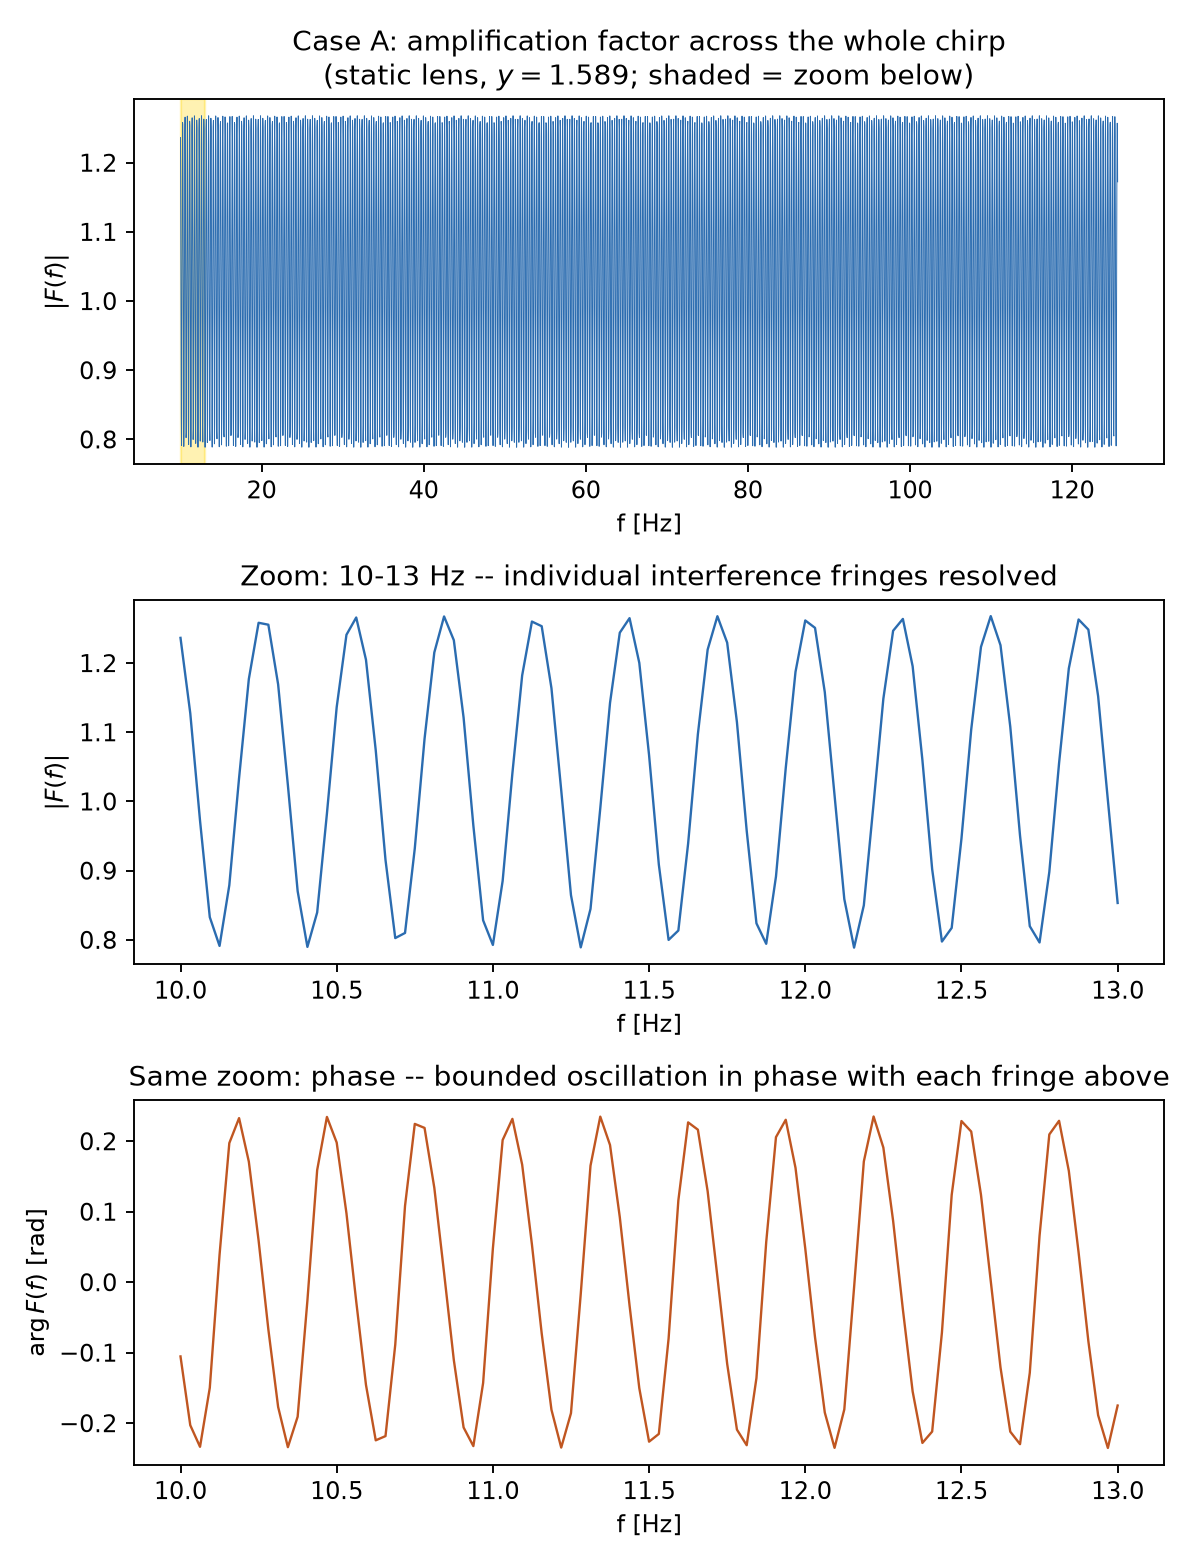
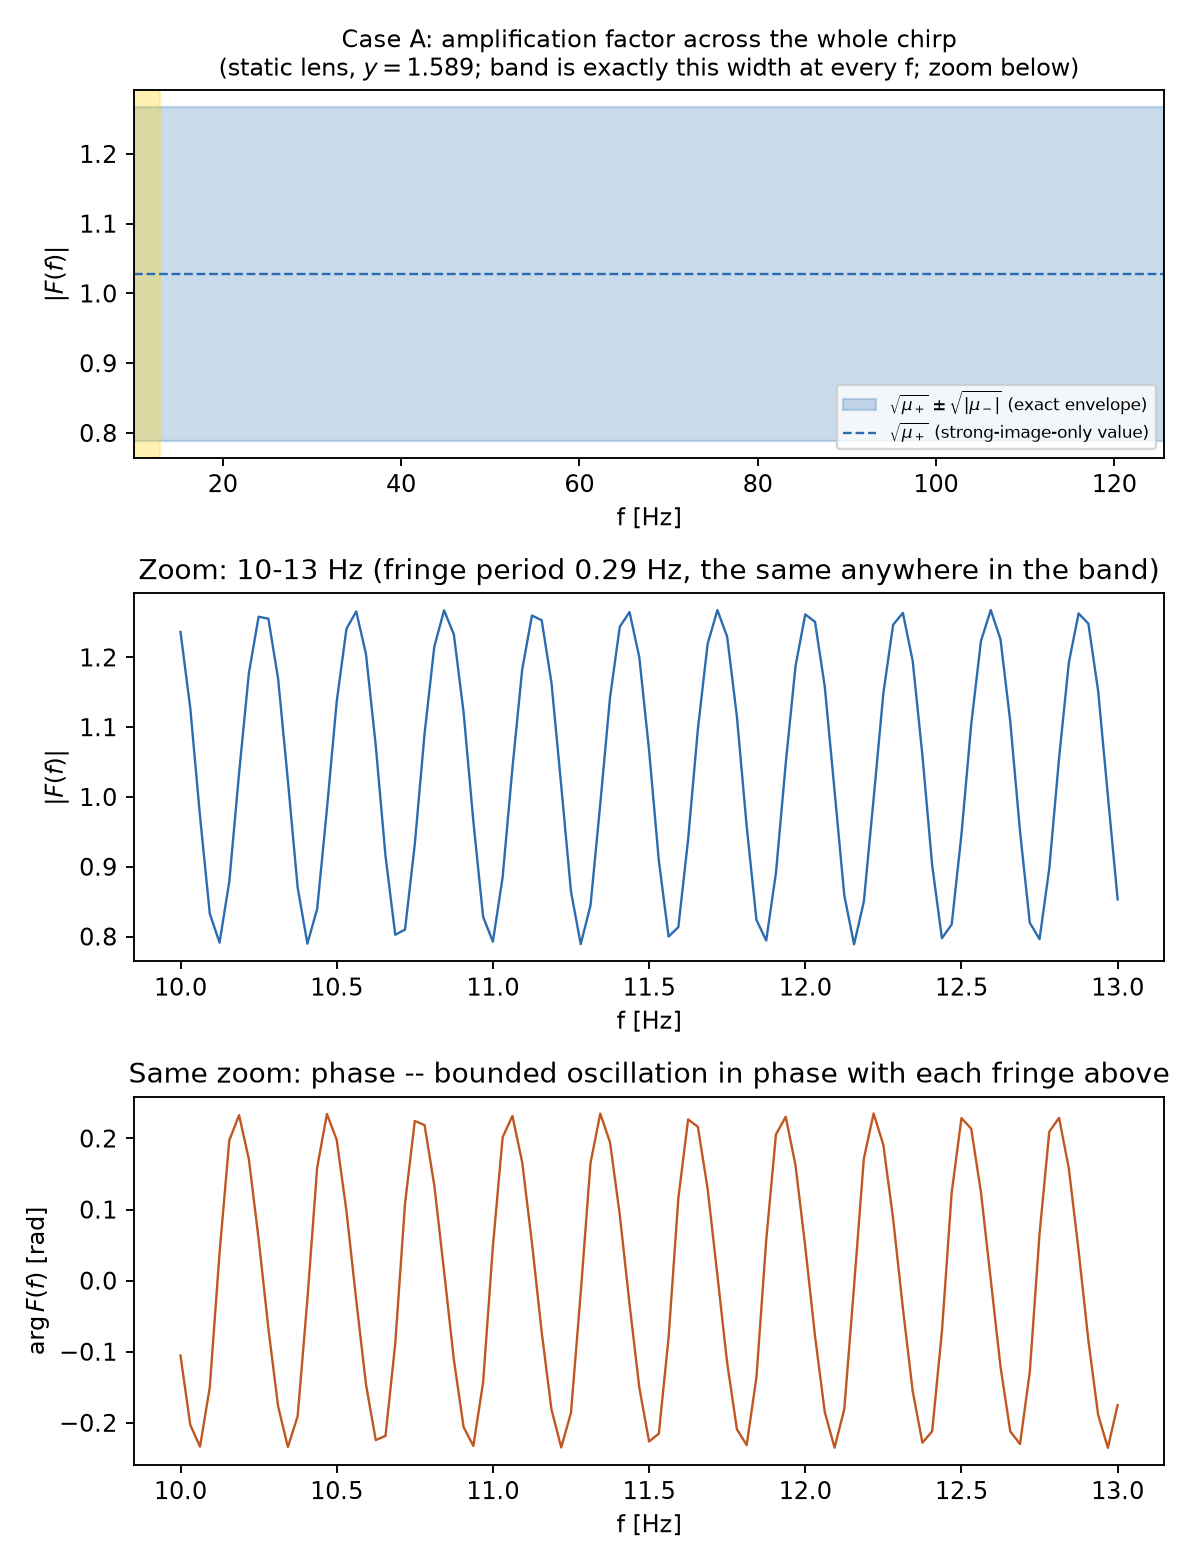
Fix figure legibility bugs: legend overlap, misleading titles, a redesigned panel
All found by actually looking at the committed PNGs, not just the code that
produces them:

- caseB_detector_view.png and caseB_y_of_t.png (now removed, see below): the
  legend box sat at a fixed 'upper right'/'best' location with no headroom,
  covering real data underneath it -- the last two carrier peaks in the
  detector-view zoom panel, the envelope ripple in its overview panel, and
  the rising edge of the second divergence in the (now-removed) impact
  parameter figure. Fixed by adding vertical headroom above the data and
  anchoring the legend there instead, on all three affected panels.

- caseB_y_of_t.png (impact parameter vs. time) removed entirely: the two
  formal y->infinity divergences dominate the whole plot and leave no room
  to see anything else, so it added nothing beyond what
  fraction_of_time_lensed and caseB_pattern_with_orbit.png already convey.
  RESULTS.md and claims.yaml updated to point at the latter instead.

- caseB_detector_view.png's zoom-panel title claimed to show "the peak of
  one lensing pulse", but a lensing pulse's own shape (the sinc-like
  diffraction ringing envelope) lives on a ~1-day timescale, while this
  panel's +-200s window is far too narrow to show anything but ~20 raw
  carrier cycles at the peak INSTANT -- retitled to say what it actually
  shows (carrier-cycle dephasing between lensed/unlensed) and to point at
  caseB_repeated_pulses.png for the pulse's actual shape.
[…]

diff --git a/cases/case_A_chirp/run.py b/cases/case_A_chirp/run.py
@@ -245,36 +245,61 @@ def main():
     log("echo_to_unlensed_peak_ratio", echo_to_unlensed_peak_ratio)
     x_plus_A, x_minus_A = wo.image_positions(y_A)
     sqrt_mu_minus = float(np.sqrt(np.abs(wo.magnification(x_minus_A))))
+    sqrt_mu_plus = float(np.sqrt(wo.magnification(x_plus_A)))
     log("sqrt_mu_minus_geometric", sqrt_mu_minus)
     log("echo_ratio_vs_sqrt_mu_minus_relerr",
         float(abs(echo_to_unlensed_peak_ratio - sqrt_mu_minus) / sqrt_mu_minus))
 
     # ---- Figure 1: F(f) across the chirp (interference fringes) ---------
     # The fringes are far too fine to resolve over the full 10-125 Hz band
-    # at print resolution (w up to 778 means thousands of oscillations); a
-    # first version of this figure just looked like a filled band. Fixed
-    # with a zoomed inset showing a few Hz where the fringes are resolved.
+    # at print resolution (w up to 778 means thousands of oscillations) --
+    # plotting the raw |F(f)| curve there just renders as an unresolved,
+    # visually noisy blob with no information content beyond its envelope
+    # (an earlier version of this figure did exactly that). The envelope
+    # itself, though, is EXACTLY two constant lines here, not something
+    # that needs a plot to discover: F is in the geometric-optics regime
+    # throughout the band (min/max_abs_F_in_band above), so
+    # |F(f)| = |sqrt(mu_+) + i*sqrt(|mu_-|)*exp(-2*pi*i*f*DeltaT_seconds)|
+    # oscillates strictly between sqrt(mu_+)-sqrt(|mu_-|) and
+    # sqrt(mu_+)+sqrt(|mu_-|) for every f -- so the top panel shows that
+    # constant band directly (shaded), which is the actually-informative
+    # summary of the whole-band behavior. The oscillation ITSELF has a
+    # period in frequency of exactly 1/Delta_T_seconds
+    # (image_time_delay_seconds), independent of f (Delta_T is fixed for a
+    # static lens, and phase = 2*pi*f*Delta_T is linear in f) -- so the
+    # zoomed inset below, though drawn at the start of the band for
+    # concreteness, is representative of any equal-width window anywhere
+    # in it, not particular to that location.
     mask = (freqs >= system.F_A_START_HZ) & (freqs <= system.F_ISCO_HZ)
     f_zoom_lo, f_zoom_hi = system.F_A_START_HZ, system.F_A_START_HZ + 3.0
     zmask = (freqs >= f_zoom_lo) & (freqs <= f_zoom_hi)
+    fringe_period_hz = 1.0 / NUMBERS["image_time_delay_seconds"]
+    log("fringe_period_hz", float(fringe_period_hz))
 
-    # Three panels: |F(f)| over the whole band, |F(f)| zoomed (fringes
+    # Three panels: constant-envelope overview, |F(f)| zoomed (fringes
     # resolved), and arg F(f) over that same zoom -- an earlier version of
     # this figure had only the two |F| panels while RESULTS.md/claims.yaml
     # already described an "arg F" sub-panel that did not exist; an
     # independent review caught the mismatch, see wiki/log.md.
     fig, axes = plt.subplots(3, 1, figsize=(7, 9.2))
-    axes[0].plot(freqs[mask], np.abs(F[mask]), lw=0.4, color="#2b6cb0")
+    axes[0].axhspan(sqrt_mu_plus - sqrt_mu_minus, sqrt_mu_plus + sqrt_mu_minus,
+                     color="#2b6cb0", alpha=0.25,
+                     label=r"$\sqrt{\mu_+}\pm\sqrt{|\mu_-|}$ (exact envelope)")
+    axes[0].axhline(sqrt_mu_plus, color="#2b6cb0", lw=1.0, ls="--",
+                     label=r"$\sqrt{\mu_+}$ (strong-image-only value)")
     axes[0].axvspan(f_zoom_lo, f_zoom_hi, color="gold", alpha=0.3)
     axes[0].set_ylabel(r"$|F(f)|$")
     axes[0].set_xlabel("f [Hz]")
+    axes[0].set_xlim(system.F_A_START_HZ, system.F_ISCO_HZ)
+    axes[0].legend(fontsize=7, loc="lower right")
     axes[0].set_title("Case A: amplification factor across the whole chirp\n"
-                       f"(static lens, $y={y_A:.3f}$; shaded = zoom below)")
+                       f"(static lens, $y={y_A:.3f}$; band is exactly this width at every f; zoom below)",
+                       fontsize=10)
     axes[1].plot(freqs[zmask], np.abs(F[zmask]), lw=1.0, color="#2b6cb0")
     axes[1].set_ylabel(r"$|F(f)|$")
     axes[1].set_xlabel("f [Hz]")
-    axes[1].set_title(f"Zoom: {f_zoom_lo:.0f}-{f_zoom_hi:.0f} Hz -- individual "
-                       "interference fringes resolved")
+    axes[1].set_title(f"Zoom: {f_zoom_lo:.0f}-{f_zoom_hi:.0f} Hz (fringe period "
+                       f"{fringe_period_hz:.2f} Hz, the same anywhere in the band)")
     axes[2].plot(freqs[zmask], np.angle(F[zmask]), lw=1.0, color="#c05621")
     axes[2].set_ylabel(r"$\arg F(f)$ [rad]")
     axes[2].set_xlabel("f [Hz]")
@@ -341,20 +366,33 @@ def main():
 
     # ---- Figure 3: extended diffraction/interference pattern in y-plane -
     from matplotlib.colors import LogNorm
+    import matplotlib.ticker as mticker
+
+    def _log_tick(value, _pos):
+        # "1" instead of matplotlib's default "10^0" for the unit-value
+        # tick -- correct either way, but "10^0" reads as unnecessary
+        # decoration for a tick that just means 1.
+        if abs(value - 1.0) < 1e-9:
+            return "1"
+        exp = round(np.log10(value))
+        return fr"$10^{{{exp}}}$"
+
     fig, axes = plt.subplots(1, 2, figsize=(9.5, 4.4))
 
     axis0, axis0y, mag2_0 = make_ring_pattern(w_start, y_max=3.0, n_grid=481)
     im0 = axes[0].pcolormesh(axis0, axis0y, mag2_0, shading="auto", cmap="inferno",
                               norm=LogNorm(vmin=max(mag2_0.min(), 1e-3), vmax=mag2_0.max()))
     axes[0].set_title(f"start of band, f={system.F_A_START_HZ} Hz, w={w_start:.1f}", fontsize=9)
-    fig.colorbar(im0, ax=axes[0], shrink=0.8, label=r"$|F|^2$ (log scale)")
+    cb0 = fig.colorbar(im0, ax=axes[0], shrink=0.8, label=r"$|F|^2$ (log scale)")
+    cb0.ax.yaxis.set_major_formatter(mticker.FuncFormatter(_log_tick))
 
     axis1, axis1y, mag2_1 = make_ring_pattern(
         w_isco, n_grid=500, center=(y_A, 0.0), half_width=0.15, n_radial=6000)
     im1 = axes[1].pcolormesh(axis1, axis1y, mag2_1, shading="auto", cmap="inferno",
                               norm=LogNorm(vmin=max(mag2_1.min(), 1e-3), vmax=mag2_1.max()))
     axes[1].set_title(f"near merger, f=f_isco, w={w_isco:.1f}\n(zoomed to |Δy|<0.15 near the source)", fontsize=9)
-    fig.colorbar(im1, ax=axes[1], shrink=0.8, label=r"$|F|^2$ (log scale)")
+    cb1 = fig.colorbar(im1, ax=axes[1], shrink=0.8, label=r"$|F|^2$ (log scale)")
+    cb1.ax.yaxis.set_major_formatter(mticker.FuncFormatter(_log_tick))
 
     for ax in axes:
         ax.set_aspect("equal")

diff --git a/cases/case_B_monochromatic/run.py b/cases/case_B_monochromatic/run.py
@@ -95,26 +95,14 @@ def main():
     log("rms_amplification_over_observation", float(rms_amp))
 
     # ================= Figures ============================================
+    # (A y(t)-over-time panel was tried here first -- the divergence at each
+    # D_LS=0 crossing dominates the plot and left little room to actually
+    # see anything else, so it added no real information beyond what
+    # fraction_of_time_lensed and caseB_pattern_with_orbit.png already show;
+    # dropped rather than kept for its own sake.)
+    one_p = t <= 1.5 * system.P_OUT_S  # used below for the orbit-track figure
 
-    # Fig 1: y(t) over ~1.5 outer periods, lensed/unlensed shading
-    fig, ax = plt.subplots(figsize=(8, 3.2))
-    one_p = t <= 1.5 * system.P_OUT_S
-    days = t[one_p] / 86400.0
-    y_show = np.where(lensed_mask[one_p], y_t[one_p], np.nan)
-    ax.plot(days, y_show, color="#2b6cb0", lw=1.2, label="y(t), lensed half")
-    ax.fill_between(days, 0, 1, where=~lensed_mask[one_p], transform=ax.get_xaxis_transform(),
-                     color="grey", alpha=0.15, label="unlensed half (source in front)")
-    ax.set_xlabel("t [days]")
-    ax.set_ylabel("impact parameter y(t)")
-    ax.set_ylim(0, 10 * NUMBERS["min_y_during_observation"])  # y->inf as D_LS->0+; crop to the interesting dip
-    ax.set_title("Case B: impact parameter over 1.5 outer periods\n"
-                 "(y formally diverges at the D_LS=0 crossing, cropped here)")
-    ax.legend(fontsize=8, loc="upper right")
-    fig.tight_layout()
-    fig.savefig(OUT / "caseB_y_of_t.png", dpi=170)
-    plt.close(fig)
-
-    # Fig 2: |F(t)|^2 over the whole observation -- repeated lensing pulses,
+    # Fig 1 (was Fig 2): |F(t)|^2 over the whole observation -- repeated lensing pulses,
     # plus a one-period zoom: the diffraction ringing flanking each pulse is
     # genuine (not aliasing -- re-checked on a 40x finer grid, agrees
     # point-for-point) but is compressed into a few pixels at the full
@@ -224,7 +212,14 @@ def main():
     axes[0].set_xlabel("t [days]")
     axes[0].set_ylabel("strain envelope [arb. units]")
     axes[0].set_title("Case B: idealized detector view over the full observation")
-    axes[0].legend(fontsize=8)
+    # Headroom above the data so the legend box has empty space to sit in,
+    # rather than covering the pulses/carrier ripple beneath it (it did, at
+    # a fixed 'upper right'/'best' location, in an earlier version of this
+    # figure -- caught by eye, not by any check, since nothing here tests
+    # figure legibility; see wiki/log.md).
+    y0, y1 = axes[0].get_ylim()
+    axes[0].set_ylim(y0, y0 + 1.28 * (y1 - y0))
+    axes[0].legend(fontsize=8, loc="upper right")
 
     # The coarse t-grid above (3600 samples over 24 d, ~576 s spacing) is
     # fine for the slowly-varying envelope but wildly undersamples the
@@ -250,7 +245,22 @@ def main():
     axes[1].plot(t_fine - t_pulse, z_l_fine.real, color="#2b6cb0", lw=0.7, alpha=0.85, label="lensed")
     axes[1].set_xlabel(f"t - {t_pulse/86400:.3f} d  [s]")
     axes[1].set_ylabel("h(t) [arb. units]")
-    axes[1].set_title("Zoom: raw waveform through the peak of one lensing pulse (fine time grid)")
+    # NOT a zoom on the pulse's own shape -- that shape (the sinc-like
+    # diffraction ringing envelope) lives on a ~day timescale and is shown
+    # in caseB_repeated_pulses.png instead. This +-200s window is far
+    # narrower than that, chosen only to resolve individual 20s-period
+    # carrier cycles at the instant of peak amplification, so the
+    # lensed/unlensed dephasing is visible cycle-by-cycle (an earlier
+    # version of this title implied it showed the pulse shape itself,
+    # which it cannot at this timescale -- caught by eye).
+    axes[1].set_title("Zoom: carrier cycles at the pulse's peak instant\n"
+                       "(dephasing between lensed and unlensed, not the pulse's own shape)",
+                       fontsize=10)
+    # Same headroom fix as the panel above -- this one is a dense sinusoid
+    # filling the whole frame, so ANY fixed corner covers real peaks
+    # without it.
+    y0, y1 = axes[1].get_ylim()
+    axes[1].set_ylim(y0, y0 + 1.35 * (y1 - y0))
     axes[1].legend(fontsize=8, loc="upper right")
     fig.tight_layout()
     fig.savefig(OUT / "caseB_detector_view.png", dpi=170)
@@ -298,7 +308,7 @@ def main():
     with open(OUT / "provenance" / "numbers.json", "w") as fh:
         json.dump(NUMBERS, fh, indent=2)
     print(json.dumps(NUMBERS, indent=2))
-    print("\nFigures written: caseB_y_of_t.png, caseB_repeated_pulses.png, "
+    print("\nFigures written: caseB_repeated_pulses.png, "
           "caseB_pattern_with_orbit.png, caseB_pattern_only.png, "
           "caseB_detector_view.png, caseB_animation_data.json")
 

diff --git a/cases/case_A_chirp/RESULTS.md b/cases/case_A_chirp/RESULTS.md
@@ -64,10 +64,16 @@ here comes from `F_geometric_optics` (`F_hybrid` never drops below
 waveform and finding `max|h_lensed - h_two_image|/max|h_lensed| = 1.1e-13`,
 machine precision). What's shown is the two-image **interference** term
 `exp(i*w*DeltaT)` oscillating very rapidly in frequency, NOT the exact
-diffraction integral contributing anything measurable beyond that limit --
-`caseA_F_of_f.png` looks like a filled band over the full 10-125 Hz sweep
-and only resolves into distinct fringes when zoomed to a ~3 Hz window
-(middle panel of that figure). Case B, at `w_B=0.309`, is where the exact
+diffraction integral contributing anything measurable beyond that limit.
+Because y_A (and so mu_+, mu_-) is fixed for the whole chirp, the *envelope*
+of `|F(f)|` is exactly constant across the entire band --
+`sqrt(mu_+)-sqrt(|mu_-|)` to `sqrt(mu_+)+sqrt(|mu_-|)`, shown as a shaded
+band in `caseA_F_of_f.png`'s top panel -- and the fringes inside that band
+have a fixed period in frequency, `1/image_time_delay_seconds=0.29 Hz`,
+the same at every f (Delta_T is fixed; the oscillation phase 2*pi*f*Delta_T
+is exactly linear in f). The middle panel zooms a 3 Hz window at the start
+of the band purely for concreteness -- an equal-width window anywhere else
+in the band looks the same. Case B, at `w_B=0.309`, is where the exact
 diffraction integral actually matters (`F_hybrid` uses `F_point_lens`
 throughout there).
 

diff --git a/cases/case_B_monochromatic/RESULTS.md b/cases/case_B_monochromatic/RESULTS.md
@@ -23,9 +23,10 @@ closed form here; `w_geo_threshold=30`).
 Exactly **half** the orbit is lensed at all (`fraction_of_time_lensed
 =0.4997`): the source spends the other half in front of the lens
 (`D_LS<0`, `geometry.impact_parameter_of_time`) where there is no lensing
-geometry and F=1 by construction, not approximation. `caseB_y_of_t.png`
-shows this directly; the impact parameter formally diverges (`y->infinity`)
-exactly at each front/back crossing, where `D_LS->0`.
+geometry and F=1 by construction, not approximation; the impact parameter
+formally diverges (`y->infinity`) exactly at each front/back crossing,
+where `D_LS->0`. `caseB_pattern_with_orbit.png` (below) shows the lensed
+and unlensed halves of the orbit directly, distinguished by color.
 
 The minimum impact parameter reached, **y=1.589**, coincides with Case A's
 y_A to 4 significant figures — not a coincidence: both are the same
